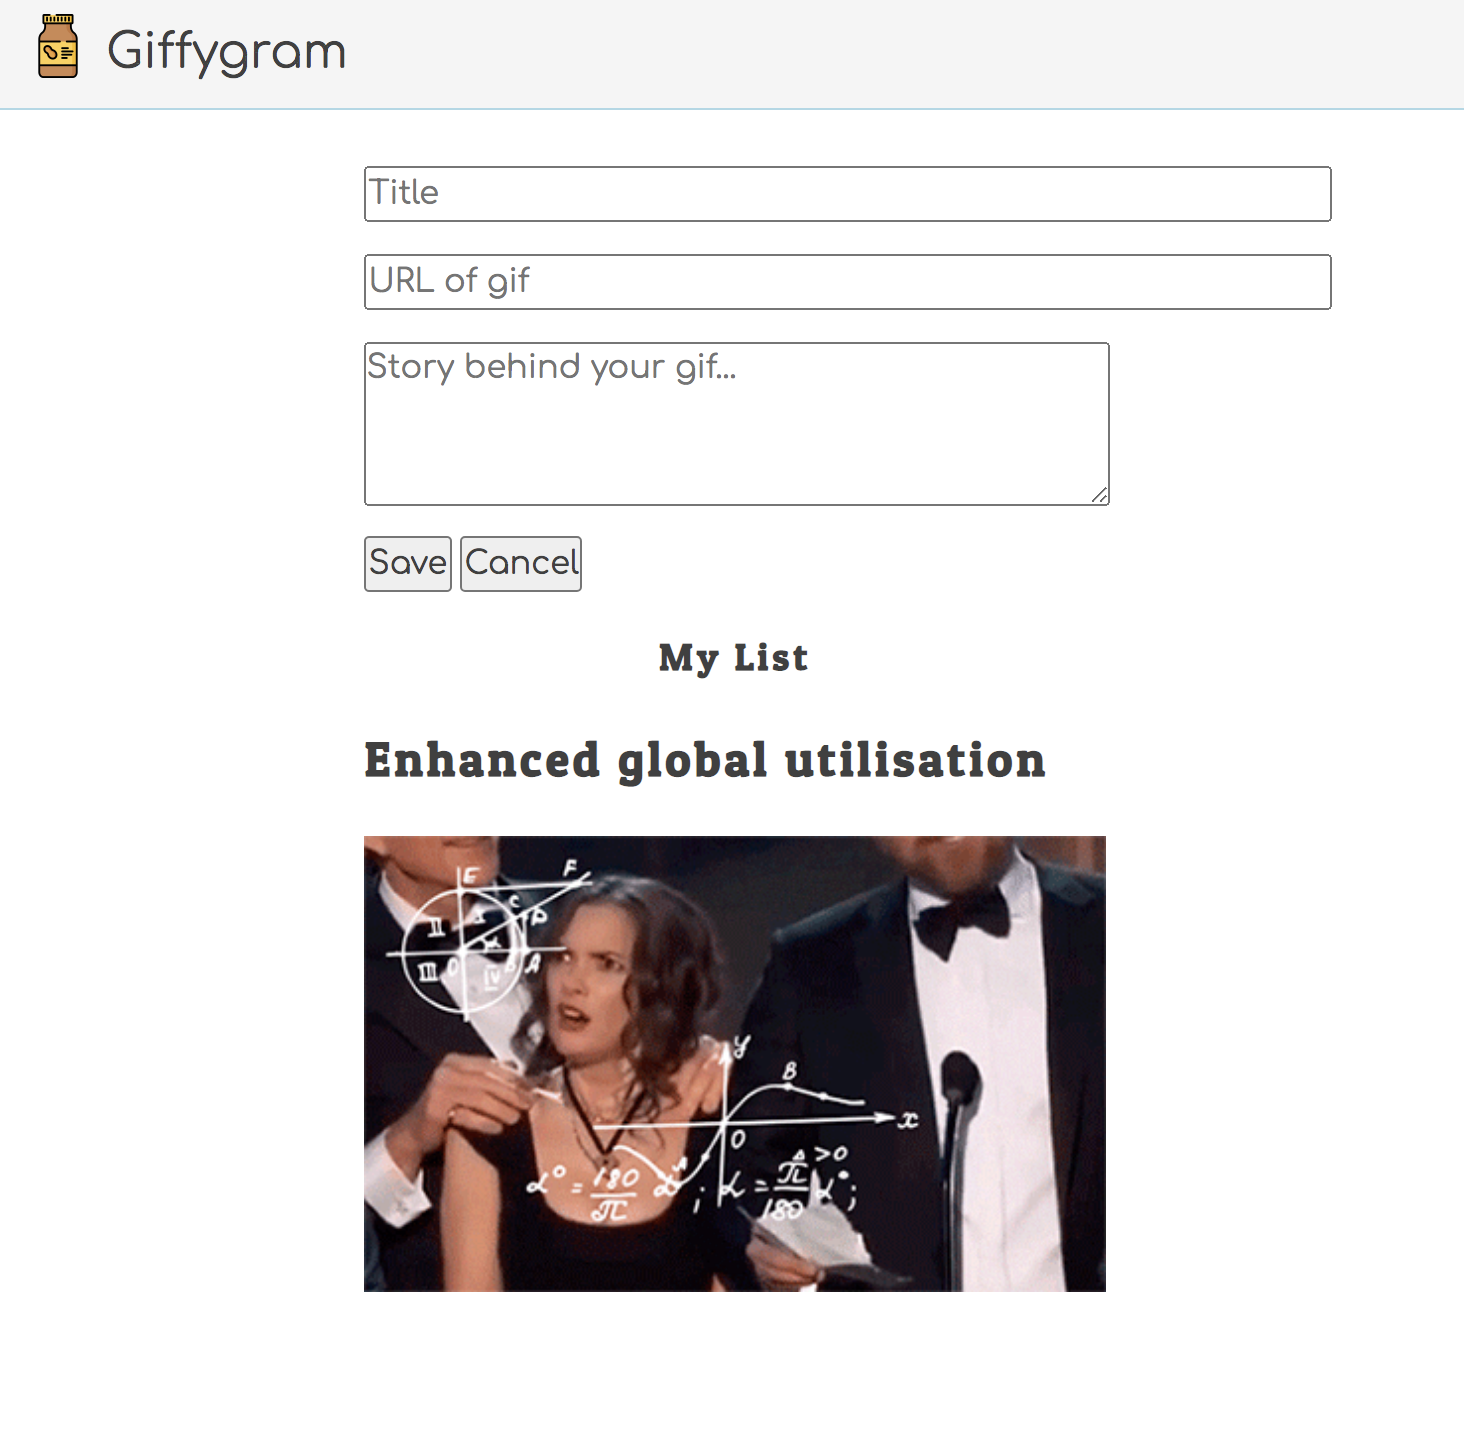
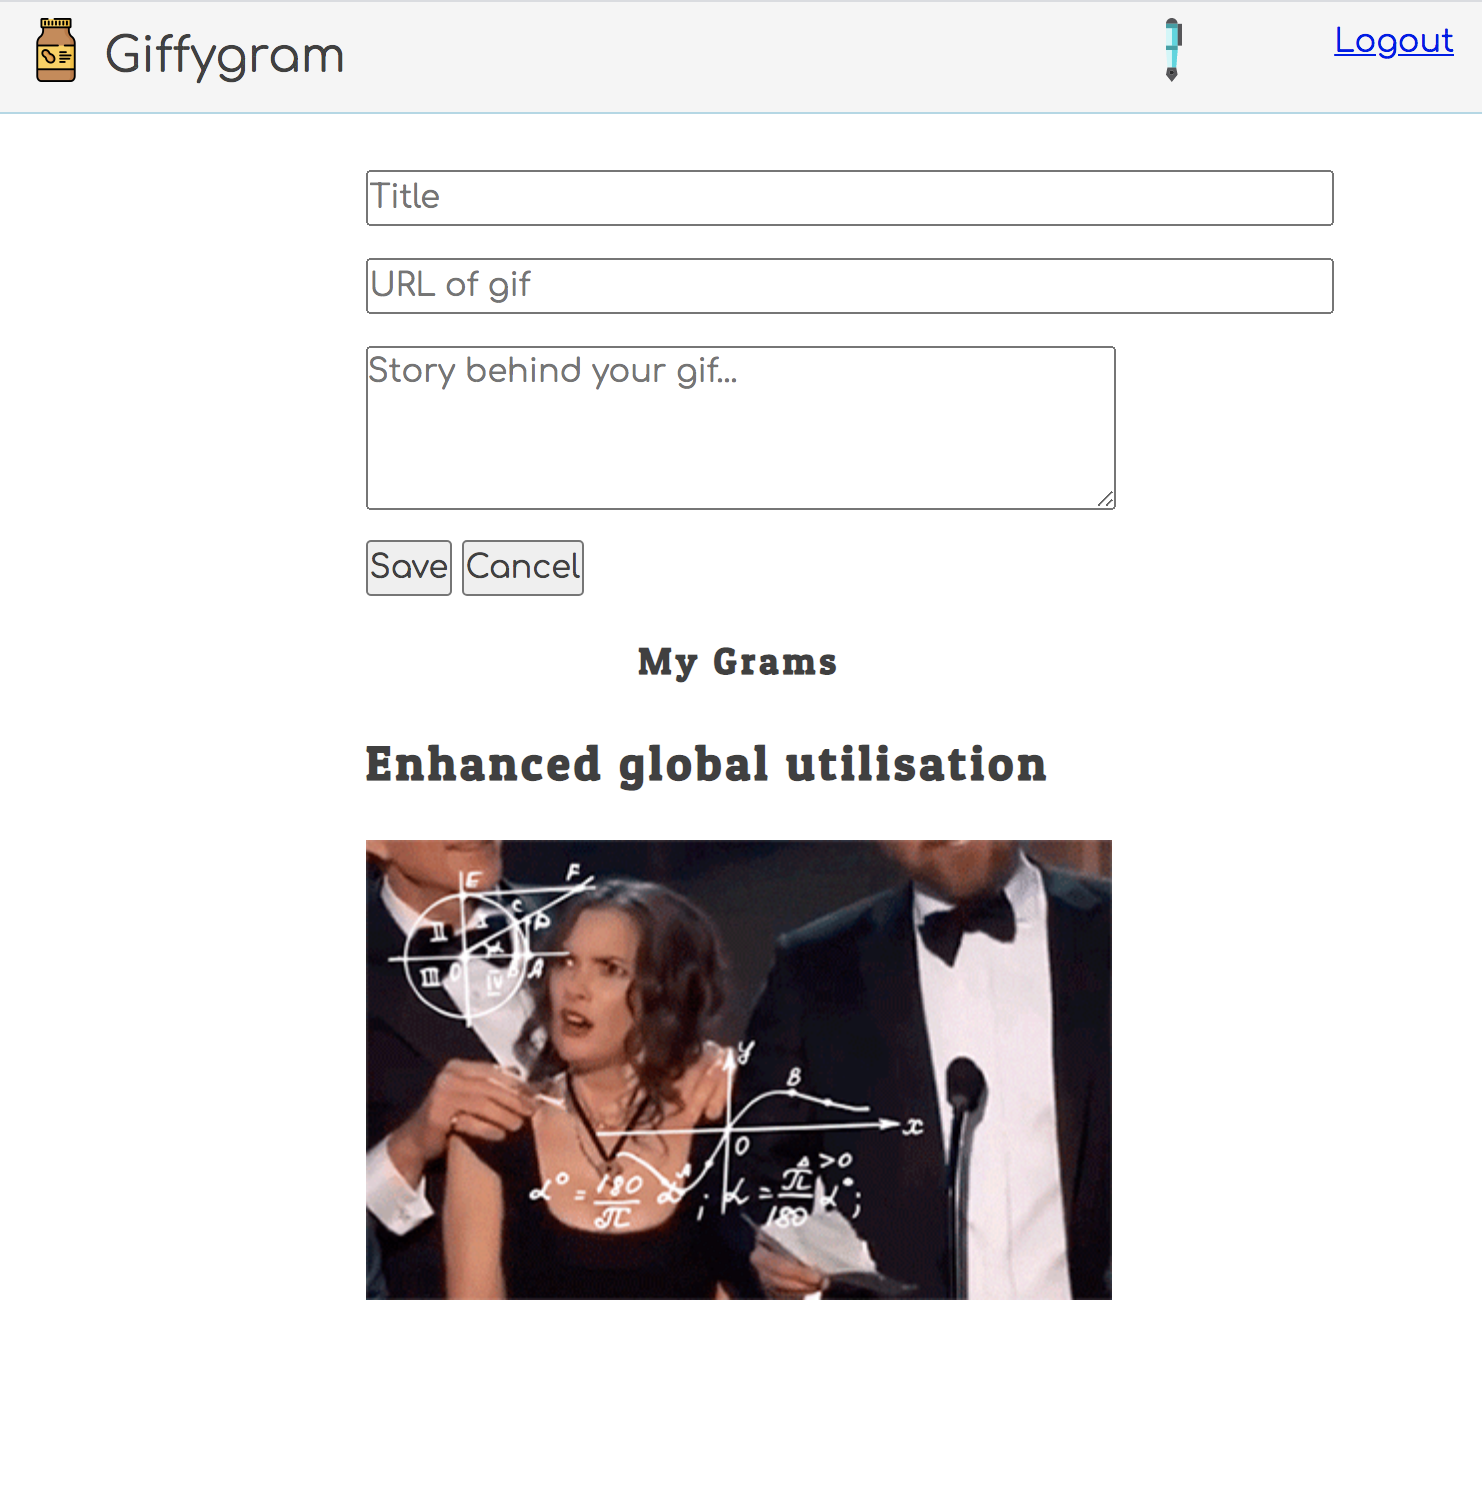
added images, added defaut user

diff --git a/book-2-giffygram/chapters/47-GG-EventListeners.md b/book-2-giffygram/chapters/47-GG-EventListeners.md
@@ -6,7 +6,7 @@ You should be able to:
 * explain the 2 arguments of `addEventListener`
 * discuss the target of an event
 * differentiate between the `id` property of an event target and the `value` property
-* explain that event listeners are added to HTML elements
+* explain how event listeners are added to HTML elements
 * understand _Event Bubbling_
 * describe how you are using event bubbling to capture an event on a different element than the true source of the event
 
@@ -21,7 +21,6 @@ In this chapter, you are going to write code that reacts to several things that 
 
 * Click on the logout button ("click")
 * Click on the direct message image ("click")
-* Type into the search field ("keyup")
 * Select a year in a drop down menu _(i.e. a `<select>` element)_ ("change")
 
 
@@ -37,7 +36,6 @@ Event bubbling is a web browser means that an event generated on a child is seen
 
 When you click on the `<p>` element in the code above, you can capture that click event on the `<p>` **or** on the parent `<div>`.
 
-Watch the resource video above for a longer explanation.
 
 ## Listening on the Only Known HTML Element
 
@@ -53,49 +51,36 @@ When working in with the Giffygram application, there is only one HTML element t
 
 The `<main>` element will always be there. Because it is guaranteed to always be available, you will use the power of event bubbling to capture ALL events, no matter where they originate, on that element.
 
-Open your **`NavBar`** module and add the following line of code at the top of the file. This gets a reference to the `<main>` element that is defined in your `index.html` document.
+Within `main.js` let's get a reference to the `<main>` element. And then add an eventListener for clicking on the logout button.
 
 ```js
-const applicationElement = document.querySelector(".giffygram")
+const applicationElement = document.querySelector(".giffygram");
+
+
 ```
 
 ## Reacting to a Click
 
 Now it is time to listen for your first browser generated event. When the user clicks on the logout button in the top-right corner, you are going to display a message that it was clicked.
 
-<img src="./images/giffygram-logout-click.gif" width="700px" />
 
 Add the following code, refresh your browser, and click the logout button.
 
 ```js
 applicationElement.addEventListener("click", event => {
-    if (event.target.id === "logout") {
-        console.log("The logout button was clicked")
-    }
+	if (event.target.id === "logout"){
+		console.log("You clicked on logout")
+	}
 })
 ```
 
 #### EventListeners are methods that accept 2 arguments. The first one is the type of event. The second one is a function - what to do when the event is heard.
 
 
-## Reacting to a Key Being Pressed
-
-The next event listener will react to the user typing in characters into the search input field.
-
-Note that the code is accessing the `.value` property of the event target - the input field - and then placing those characters into the message being displayed in the alert.
-
-```js
-applicationElement.addEventListener("keyup", event => {
-    if (event.target.id === "postSearch") {
-        const userInput = event.target.value
-        console.log(`${userInput} has been typed into the search field`)
-    }
-})
-```
 
 ## Selecting a Year
 
-Now it's time to add an event listener that will react to a user selecting a year from the select element in the footer component.
+Now it's time to add an event listener that will react to a user selecting a year from a select element.
 
 You will need to create a `Footer` component and include it in your `GiffyGram` component.
 

diff --git a/book-2-giffygram/chapters/47-GG-Navbar.md b/book-2-giffygram/chapters/47-GG-Navbar.md
@@ -51,28 +51,25 @@ You should be able to:
     ```
 ## Including a Component in Another One
 
-1. Open the `GiffyGram.js` file
+1. Open `main.js` file
 1. Import the `NavBar.js` file
 
-The return statement usually returns only one thing. Since the return of GiffyGram will now contain multiple components, we need to wrap the components within a `string template`.
-
-1. Change the following line of code...
-    ```js
-   export const GiffyGram = () => {
-    //if user
-    return `
-      ${NavBar()}
-      ${PostList()}
-    `
+Include a function that returns the NavBar.
+```js
+const showNavBar = () => {
+	navElement.innerHTML = NavBar();
 }
-    ```
-1. Refresh your browser.
+```
 
-You just imported a function from another module, invoked it, and interpolated its return value into a string.
+Within startGiffyGram function, invoke `showNavBar`
+```js
+    showNavBar();
+	showPostList();
+```
 
 
 ## Practice Footer
 
-Create a footer component for your application that contains copywrite information. Render it below the `PostList` component.
+Create a footer component for your application that contains copyright information. Render it below the `PostList` component.
 
 Look in the `styles/footer.css` file to see a style that you can apply to your footer element.

diff --git a/book-2-giffygram/chapters/47-GG-Application-Data.md b/book-2-giffygram/chapters/47-GG-Application-Data.md
@@ -71,10 +71,25 @@ All other components will be either rendering _(i.e. displaying)_ state as HTML,
 
 ```
 
+
 > **Key Term**: The `userId` property on the post object is a **foreign key**. It matches the primary key of `1` of the user who created the post. In relational data systems, it is how you connect two related things together. In this example, it's your way of saying "This post object belongs to user #1."
 
-
 The `export` keyword makes the function usable by other modules. If you do not put the `export` keyword before declaring the function, then this module is the only one that can invoke it.
+
+## Add a Default User
+Since our data is dependant on a user and userId, let's add a default to our DataManager module. Once we build out the login functionality, we can replace this value.
+
+```js
+const loggedInUser = {
+	id: 1,
+	name: "Bryan",
+	email: "bryan@bn.com"
+}
+
+export const getLoggedInUser = () => {
+	return loggedInUser;
+}
+```
 
 ## Practice: Journal Get Entries
 * Set up your journal to include a `DataManager.js` module.

diff --git a/book-2-giffygram/chapters/47-GG-PostList-Post.md b/book-2-giffygram/chapters/47-GG-PostList-Post.md
@@ -72,7 +72,7 @@ const showPostList = () => {
 
 
 const startGiffyGram = () => {
-	showNavBar();
+	showPostList();
 }
 
 startGiffyGram();
